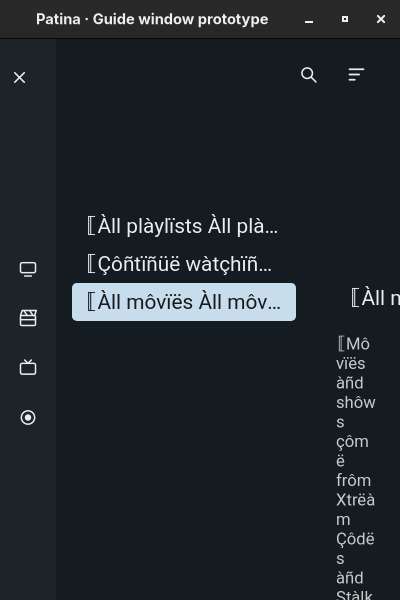
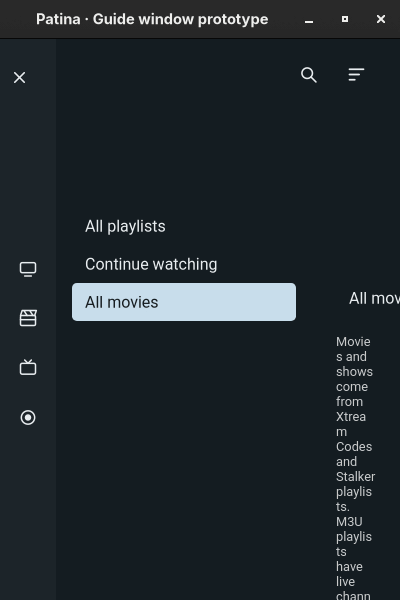
Bound the smoke hold and narrow the journey evidence
The runner and the smoke now accept IPTV_SMOKE_HOLD only as 1 to 900
seconds, checked before any device action, and the runner adds the hold
to the smoke's budget. The hold removes a stale stop file and keeps the
logs every 30 seconds so the final crash and refused-load checks still
see them.

The journey doc now says what the evidence shows: no new stream rather
than surface continuity, Settings-only coverage for the pseudolocale test,
the locale and text size of the 400x600 screenshot (now English at
Medium), smoke steps by name and run-directory paths as not committed.

Claude-Session: https://claude.ai/code/session_01VfuNSQKKKYox1hRc8Xaumu

diff --git a/tools/ci/disposable-avd.py b/tools/ci/disposable-avd.py
@@ -174,6 +174,21 @@ def stop(process):
     process.wait(timeout=10)
 
 
+# Seconds an operator may hold the smoke for manual checks (IPTV_SMOKE_HOLD);
+# the runner adds the hold to the smoke's own budget.
+SMOKE_BUDGET = 1200
+HOLD_LIMIT = 900
+
+
+def smoke_timeout(env):
+    hold = env.get("IPTV_SMOKE_HOLD", "")
+    if not hold:
+        return SMOKE_BUDGET
+    if not re.fullmatch(r"[1-9][0-9]{0,2}", hold) or int(hold) > HOLD_LIMIT:
+        raise ValueError(f"IPTV_SMOKE_HOLD must be whole seconds from 1 through {HOLD_LIMIT}")
+    return SMOKE_BUDGET + int(hold)
+
+
 def main():
     parser = argparse.ArgumentParser(description=__doc__)
     parser.add_argument("source", type=Path, help="existing source .avd directory; never modified")
@@ -186,6 +201,10 @@ def main():
                         default="swiftshader", help="renderer to record and compare during emulator diagnostics")
     parser.add_argument("--qemu-img", default=shutil.which("qemu-img"), help="SDK qemu-img or a compatible host tool")
     args = parser.parse_args()
+    try:
+        budget = smoke_timeout(os.environ)
+    except ValueError as error:
+        parser.error(str(error))
     if args.port % 2 or not 5554 <= args.port <= 5682:
         parser.error("--port must be an even emulator console port from 5554 through 5682")
     output = plain_path(args.out)
@@ -247,7 +266,7 @@ def main():
             raise RuntimeError("owned emulator boot timed out")
         smoke = subprocess.Popen(["bash", str(ROOT / "tools/ci/android-smoke.sh"), serial, str(apk)],
                                  env=env, start_new_session=True)
-        if smoke.wait(timeout=1200):
+        if smoke.wait(timeout=budget):
             raise RuntimeError("synthetic smoke failed; evidence retained")
         operation["result"] = "passed"
         manifest.write_text(json.dumps(operation, indent=2) + "\n")

diff --git a/tools/ci/test-disposable-avd.py b/tools/ci/test-disposable-avd.py
@@ -29,6 +29,14 @@ class Profiles(unittest.TestCase):
     def assert_original(self):
         self.assertEqual({p.name: p.read_bytes() for p in self.source.iterdir()}, self.before)
 
+    def test_smoke_hold_is_bounded_and_extends_the_budget(self):
+        self.assertEqual(a.smoke_timeout({}), a.SMOKE_BUDGET)
+        self.assertEqual(a.smoke_timeout({"IPTV_SMOKE_HOLD": "480"}), a.SMOKE_BUDGET + 480)
+        self.assertEqual(a.smoke_timeout({"IPTV_SMOKE_HOLD": "900"}), a.SMOKE_BUDGET + 900)
+        for bad in ("0", "901", "-5", "1e3", "99999999999999999999", " 60", "60s"):
+            with self.assertRaises(ValueError, msg=bad):
+                a.smoke_timeout({"IPTV_SMOKE_HOLD": bad})
+
     def test_complete_copy_rewrites_only_copy_and_cleanup_preserves_original(self):
         root, token, name = a.prepare(self.source, self.scratch)
         profile = root / "avd" / (name + ".avd")

diff --git a/docs/validation/issue-86-journey.md b/docs/validation/issue-86-journey.md
@@ -47,8 +47,23 @@ Each Android run used `tools/ci/disposable-avd.py` with a fresh wiped copy
 of the source AVD, recorded `operation.json` with `"result": "passed"`, and
 removed its copy. The smoke's new optional hold (`IPTV_SMOKE_HOLD`) kept the
 app on the same owned emulator for the touch and rotation checks below, and
-its crash and refused-load checks ran after them. Run directories stay under
-`target/android-validation/` and are not committed.
+its crash and refused-load checks ran after them. Paths such as
+`target/android-validation/run-aca2cr_l/smoke/01-first-run.png` are in the
+local run directories, which are not committed; only the screenshots linked
+from `docs/screenshots/issue-86/` are.
+
+Smoke steps are cited by their names in `tools/ci/android-smoke.sh`: "install
+and first start", "add the synthetic playlist", "play a channel in the guide",
+"full screen", "shared TV controls and long OK release" (TV only),
+"multiview with a second player", "background and resume", "back to the
+guide", "refresh during playback", "kill and reopen after a change",
+"recreate the activity", "interrupt then recover a restore" and "hardware
+Search".
+
+"No new stream" below means the app logged no further `player 0 open` line.
+That shows no stream was opened again; it does not show that the native
+player surface survived. Surface and frame continuity on Android were not
+verified here (the screenshots only show video in the preview afterwards).
 
 The Broadway display has no OpenGL, so the desktop real window shows no
 video ("The current backend does not support OpenGL"). Its screenshots show
@@ -64,19 +79,19 @@ here checked it.
 
 | Step | Result | Evidence |
 |---|---|---|
-| Add a source (first run, Add playlist, wizard) | Pass | Smoke steps 1–2, `smoke/01-first-run.png` to `03-playlist-added.png` ("300 channels in 24 groups") |
-| Find TV content in the guide | Pass | Smoke step 3, `04-guide-preview.png` |
-| Choosing plays full screen (remote OK) | Pass | Smoke step 4, `05-fullscreen.png` |
+| Add a source (first run, Add playlist, wizard) | Pass | Smoke "install and first start" and "add the synthetic playlist"; `target/android-validation/run-aca2cr_l/smoke/01-first-run.png` to `03-playlist-added.png` ("300 channels in 24 groups"; run directory, not committed) |
+| Find TV content in the guide | Pass | Smoke "play a channel in the guide"; `smoke/04-guide-preview.png` (run directory, not committed) |
+| Choosing plays full screen (remote OK) | Pass | Smoke "full screen"; `smoke/05-fullscreen.png` (run directory, not committed) |
 | Choosing plays full screen (touch tap on a channel) | Pass | Manual; one `player 0 open` for the tap |
 | Visible Back in full screen (touch) | Pass | [tablet-full-screen-back.png](../screenshots/issue-86/tablet-full-screen-back.png) |
-| Back returns to the same channel, stream continues in the preview | Pass | Tap on ‹ logged `play bar: back`, guide on the chosen channel, no new open |
+| Back returns to the same channel, video shown in the preview | Pass | Tap on ‹ logged `play bar: back`; the guide showed the chosen channel with video in the preview; no new stream. Surface continuity not verified |
 | ⋯ visible for touch in the guide, opens the programme and channel menu | Pass | [tablet-guide-touch.png](../screenshots/issue-86/tablet-guide-touch.png); the menu listed programme and channel actions |
 | Keys hide ⋯ and keep its room; Back stays visible on a tablet | Pass | Manual D-pad after touch: focus highlight shown, ⋯ hidden, title unmoved, ‹ kept |
 | Find movies and series: Movies with an M3U-only library | Pass | [tablet-movies-empty-state.png](../screenshots/issue-86/tablet-movies-empty-state.png): explains M3U has live channels only, offers Add playlist |
 | Close Movies returns to the same channel | Pass | Manual |
-| Rotation to portrait keeps channel, focus and stream | Pass | [tablet-portrait-compact-header.png](../screenshots/issue-86/tablet-portrait-compact-header.png): compact header with the shortcuts on their own row; no `player 0 open` during rotation |
-| Background, resume, kill, recreate, restore: same channel by identity | Pass | Smoke steps 6–12 |
-| Movie and series playback, resume | Not run on Android | The smoke fixture has no Xtream catalogue; see desktop headless |
+| Rotation to portrait keeps channel and focus, opens no stream | Pass | [tablet-portrait-compact-header.png](../screenshots/issue-86/tablet-portrait-compact-header.png): compact header with the shortcuts on their own row, video in the preview; no new stream during rotation. Surface continuity not verified |
+| Background, resume, kill, recreate, restore: same channel by identity | Pass | Smoke "background and resume" through "interrupt then recover a restore" |
+| Movie and series playback, resume | Not run on Android | The smoke fixture is an M3U playlist with no movies or series; only the desktop headless scenarios cover this |
 | Split screen | Not run | |
 | Keyboard and mouse on the tablet | Not run on Android | Headless `pointer::tablet_back_controls`, `tv_shared_controls::a_tablet_shows_the_more_control_before_any_tap` |
 
@@ -84,16 +99,16 @@ here checked it.
 
 | Step | Result | Evidence |
 |---|---|---|
-| Add a source | Pass | Smoke steps 1–2 |
-| Choosing plays full screen (remote OK) | Pass | Smoke step 4 and a manual OK on another channel |
+| Add a source | Pass | Smoke "install and first start" and "add the synthetic playlist" |
+| Choosing plays full screen (remote OK) | Pass | Smoke "full screen" and a manual OK on another channel |
 | Long OK opens the controls without a short-OK action | Pass | Smoke "shared TV controls and long OK release" |
-| Back returns to the guide on the same channel, playing | Pass | Manual: `key=back … ctx=Player action=Some(Back)`, then the guide on the chosen channel |
+| Back returns to the guide on the same channel | Pass | Manual: `key=back … ctx=Player action=Some(Back)`, then the guide on the chosen channel with video in the preview. Surface continuity not verified |
 | No ⋯ and no visible Back with the remote | Pass | [tv-guide-remote.png](../screenshots/issue-86/tv-guide-remote.png): the programme title uses the ⋯'s room |
 | Touch on a TV shows ‹ and ⋯ | Pass | [tv-guide-after-touch.png](../screenshots/issue-86/tv-guide-after-touch.png) |
 | Touch: tap a channel plays full screen; the player's "TV guide" returns to the same channel | Pass | Manual |
 | Movies with an M3U-only library, remote and touch | Pass | Same message and Add playlist; remote Right from the categories focuses the action; Close shows only after touch |
-| Background, resume, kill, recreate, restore | Pass | Smoke steps 6–12 |
-| Movie and series playback | Not run on Android | No Xtream fixture in the smoke |
+| Background, resume, kill, recreate, restore | Pass | Smoke "background and resume" through "interrupt then recover a restore" |
+| Movie and series playback | Not run on Android | The smoke fixture is an M3U playlist with no movies or series |
 
 ### Desktop
 
@@ -107,16 +122,17 @@ here checked it.
 | Resize keeps channel, preview, title and episode on one player, no extra opens | Pass (headless) | `pane_collapse::resizing_the_guide_keeps_the_focused_channel_and_the_playing_preview`, `pane_collapse::resizing_movies_and_shows_keeps_the_title_and_the_episode` |
 | Movies and Shows: play, resume by identity | Pass (headless) | `vod_library::movies_and_series_reach_playback_and_resume_by_identity`, `desktop_clicks_through_continue_watching_and_recently_added` |
 | Empty, failed and disabled imports with their actions | Pass (headless) | `vod_library::desktop_retries_a_failed_import_and_refreshes_an_empty_one`, `an_import_switched_off_opens_that_playlists_import_switch`, `the_empty_state_covers_every_playlist_the_catalogue_reads` |
-| Movies empty state at 400×600 for pointer | **Fail** | [desktop-400x600-movies-empty-squeezed.png](../screenshots/issue-86/desktop-400x600-movies-empty-squeezed.png); bug 1 below |
+| Movies empty state at 400×600 for pointer | **Fail** | [desktop-400x600-movies-empty-squeezed.png](../screenshots/issue-86/desktop-400x600-movies-empty-squeezed.png) (English, Medium text); bug 1 below |
 | Extra large text with the pseudolocale, 1280×720 | Pass | [desktop-1280x720-extra-large-pseudo.png](../screenshots/issue-86/desktop-1280x720-extra-large-pseudo.png): shortcuts and preview visible |
-| Large text and translations keep accessible names | Pass (headless) | `interface_languages::pseudolocalized_labels_keep_their_accessible_name_at_large_text_sizes` |
+| Large text and translations keep accessible names | Pass (headless, Settings only) | `interface_languages::pseudolocalized_labels_keep_their_accessible_name_at_large_text_sizes` walks the Settings screen; it does not cover the journey's guide, player or Movies actions |
 | Video in the real window | Not run | Broadway has no OpenGL |
 
 ## Bugs and observations
 
 1. **Movies and Shows empty state is unusable at 400×600 for pointer and
-   touch.** Repro: desktop window 400×600 (any text size), M3U-only library,
-   click Movies. The categories column keeps its full width; the message
+   touch.** Repro: desktop window 400×600, M3U-only library, click Movies.
+   Seen in English at Medium text (the committed screenshot) and again with
+   Extra large text in the pseudolocale (not committed). The categories column keeps its full width; the message
    column shrinks to about 60 points, wraps a word or a few letters per line,
    clips its title, and puts Add playlist below the window. Keyboard users
    can reach it: Right moves focus to the action and the categories slide
@@ -133,18 +149,22 @@ here checked it.
 4. **Observation:** at 400×600 the compact header's shortcut row scrolls
    sideways without a scroll bar, so Add playlist is reachable but only half
    of a label hints that more follows.
+5. **Observation:** the test pseudolocale (`IPTV_RS_TEST_PSEUDOLOCALE=1`)
+   expands only the app's own strings. Strings translated through
+   `iptv_core::i18n`, such as the guide's "No information", stay in English
+   in the pseudolocale screenshot, so it does not test their length.
 
-No crash, refused player load or stray stream open was seen on either
-emulator.
+No crash or refused player load was seen on either emulator, and no stream
+was opened by a rotation, a Back or closing Movies.
 
 ## Acceptance criteria
 
 | #86 criterion | Status | Evidence |
 |---|---|---|
 | Document the route, activation and pane-collapse contract | Met | [Interaction contract](../interaction.md) |
-| Discoverable destinations and actionable empty, loading and error states | Met, with bug 1 | Emulators show the M3U-only state with Add playlist; headless covers in progress, failed, disabled and empty with their actions |
-| Resize, rotation, split screen and input switching keep identity, position and playback, with no extra opens | Partly | Resize: headless `pane_collapse`. Rotation and touch/key switching: tablet emulator, no extra open. Split screen: not run |
-| Large text and long translations leave primary actions visible or reachable | Partly | Met at 1280×720 and in headless `interface_languages`; bug 1 at 400×600 |
+| Discoverable destinations and actionable empty, loading and error states | Partly (bug 1, observation 3) | Emulators show the M3U-only state with Add playlist; headless covers in progress, failed, disabled and empty with their actions |
+| Resize, rotation, split screen and input switching keep identity, position and playback, with no extra opens | Partly | Resize: headless `pane_collapse`, including the same player node. Rotation and touch/key switching: tablet emulator kept the channel and opened no stream; surface continuity not verified. Split screen: not run |
+| Large text and long translations leave primary actions visible or reachable | Partly | Met at 1280×720 in the real window; headless `interface_languages` covers Settings only; bug 1 at 400×600; observation 5 |
 | A tablet with keyboard and mouse keeps touch controls and no permanent remote hints | Partly | Headless `pointer::tablet_back_controls` and the tablet ⋯ scenarios; on the emulator touch and D-pad alternated correctly. No hardware keyboard and mouse run |
 | Complete journey on fresh TV, tablet and desktop installations, with build, OS, input, viewport and synthetic screenshots | Partly | Fresh emulator installs and the headless and private-window desktop runs above. Not run: physical devices, desktop video in a real window, movie and series playback on Android |
 
@@ -155,4 +175,6 @@ emulator.
 - Android split screen, a hardware keyboard or mouse on the tablet,
   TalkBack, and system font scale above 1.0.
 - Movie and series playback on Android: the smoke fixture is an M3U playlist.
+- Native player surface and frame continuity on Android across rotation and
+  Back.
 - Video in the desktop real window.

diff --git a/docs/android-validation.md b/docs/android-validation.md
@@ -49,10 +49,13 @@ An uncatchable process/machine termination can leave a copy behind: inspect it a
 its marker manually; never substitute the original profile path into cleanup.
 
 For manual journey checks on the same owned emulator, set `IPTV_SMOKE_HOLD` to
-a number of seconds (and optionally `IPTV_SMOKE_HOLD_FILE` to a path whose
-creation ends the hold early). The smoke waits after its last step, then still
-runs its crash and refused-load checks. Address that emulator only by its
-`emulator-<port>` serial; CI never sets the hold.
+whole seconds from 1 through 900, and optionally `IPTV_SMOKE_HOLD_FILE` to a
+path whose creation ends the hold early (the smoke removes an existing file when
+the hold starts). Both the runner and the smoke refuse another value before any
+device action; the runner adds the hold to the smoke's 1200 s budget. The smoke
+waits after its last step, keeps the logs every 30 s, then still runs its crash
+and refused-load checks. Address that emulator only by its `emulator-<port>`
+serial; CI never sets the hold.
 
 The existing smoke script restores changed device settings in its cleanup trap.
 The disposable runner provides containment if that restoration is interrupted.
